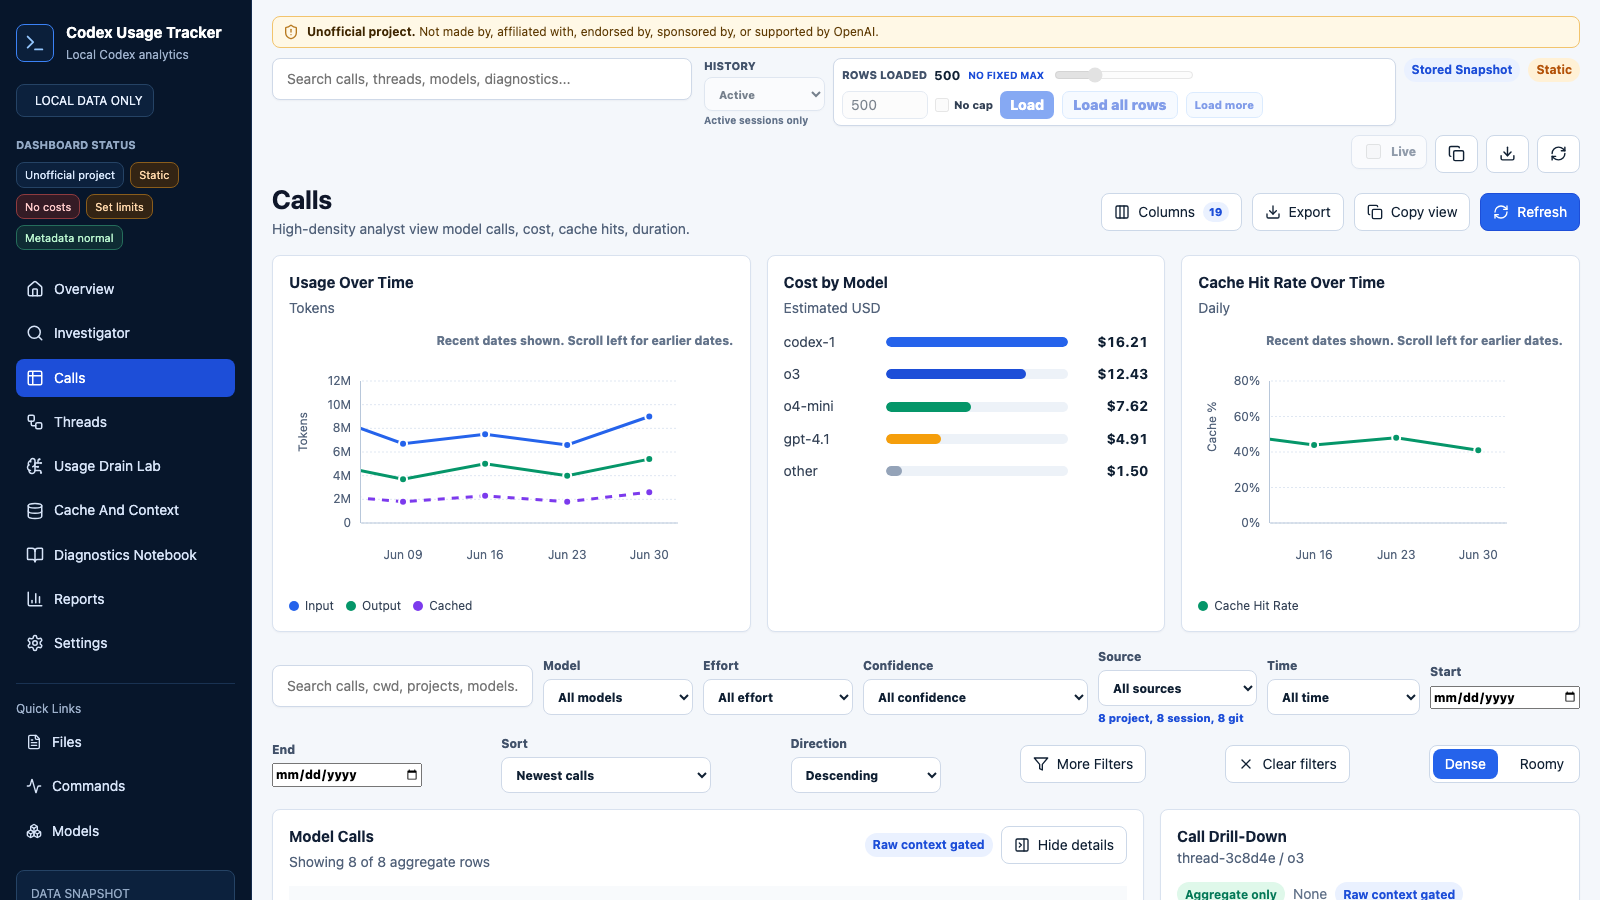
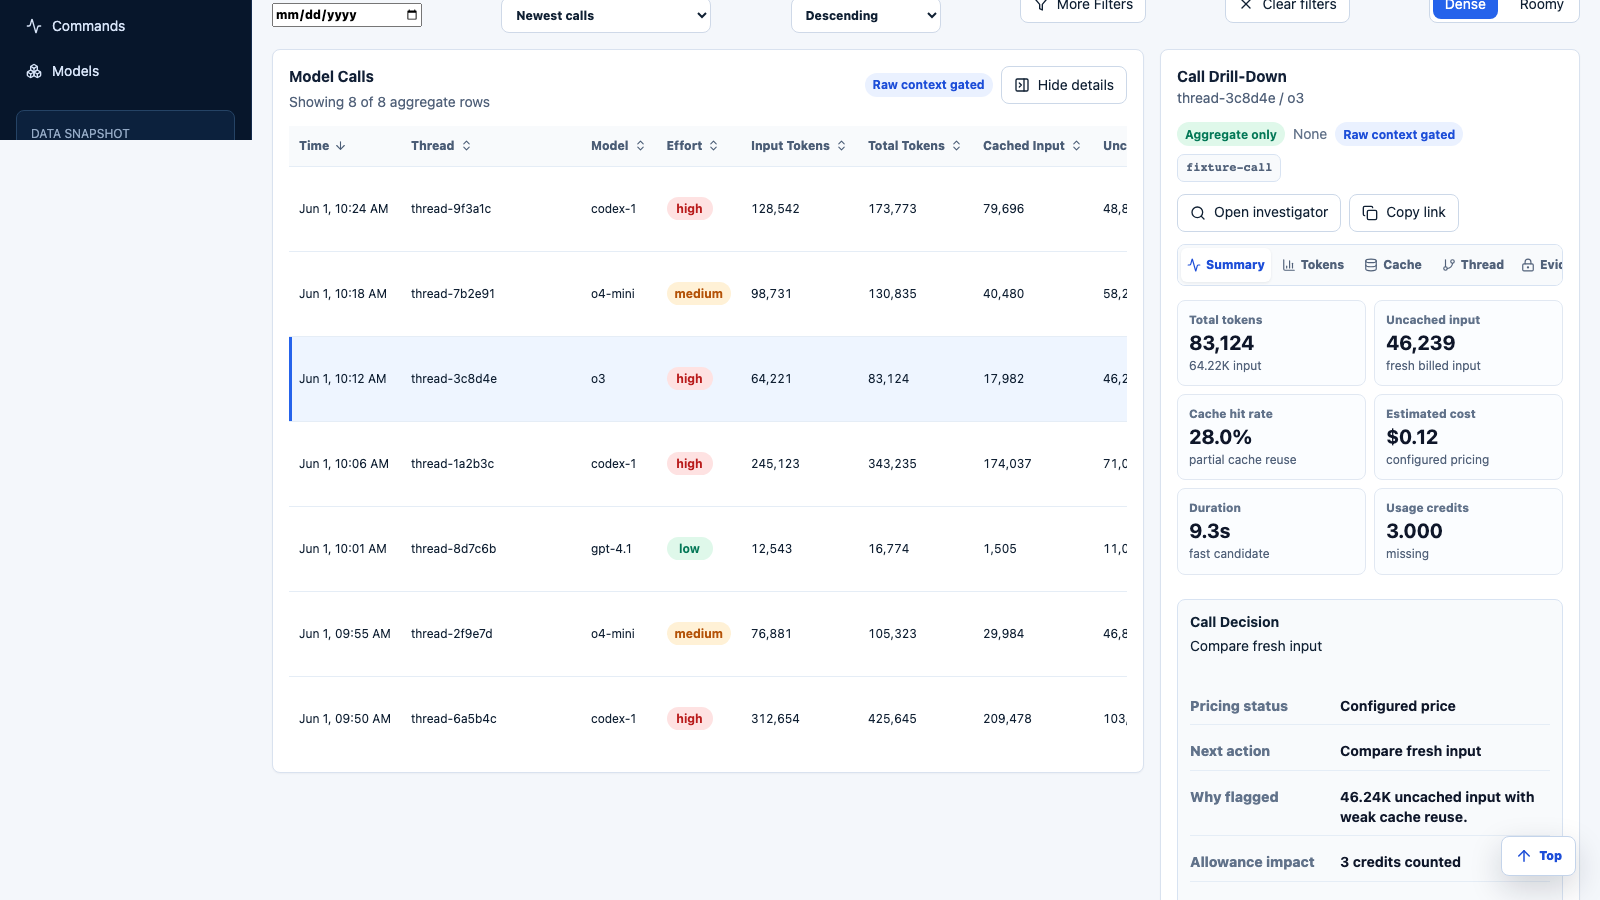
feat: prepare 0.15.0 usage coaching release
Bump to 0.15.0, add remediation-aware companion skill guidance, recenter README plugin workflow, refresh showcase/readiness docs, and harden dashboard release checks.

diff --git a/frontend/dashboard/src/App.context-cache.test.tsx b/frontend/dashboard/src/App.context-cache.test.tsx
@@ -4,7 +4,7 @@ describe('React dashboard context evidence cache', () => {
   installAppTestHooks();
 
   it('reuses loaded evidence when returning to the side-panel Evidence tab', async () => {
-    window.history.replaceState(null, '', '/?view=calls');
+    window.history.replaceState(null, '', '/?view=calls&record=record-context-cache');
     installContextCacheBootPayload();
     const fetchMock = vi.fn().mockResolvedValue(contextResponse('cached side-panel sample'));
     vi.stubGlobal('fetch', fetchMock);
@@ -26,7 +26,7 @@ describe('React dashboard context evidence cache', () => {
   });
 
   it('restores opened context entries and scroll positions when returning to Evidence', async () => {
-    window.history.replaceState(null, '', '/?view=calls');
+    window.history.replaceState(null, '', '/?view=calls&record=record-context-cache');
     installContextCacheBootPayload();
     const fetchMock = vi.fn().mockResolvedValue(contextEntriesResponse(['context entry one', 'context entry two']));
     vi.stubGlobal('fetch', fetchMock);
@@ -54,7 +54,7 @@ await waitFor(() => expect(restoredEntries[1]).toHaveAttribute('open'));
   });
 
   it('restores show-all context entry depth across tabs and full-page investigator', async () => {
-    window.history.replaceState(null, '', '/?view=calls');
+    window.history.replaceState(null, '', '/?view=calls&record=record-context-cache');
     installContextCacheBootPayload();
     const fetchMock = vi.fn().mockResolvedValue(
       contextEntriesResponse(Array.from({ length: 12 }, (_, index) => `context depth entry ${index + 1}`)),
@@ -80,7 +80,7 @@ await waitFor(() => expect(restoredEntries[1]).toHaveAttribute('open'));
   });
 
   it('reuses side-panel evidence in the full-page Call Investigator', async () => {
-    window.history.replaceState(null, '', '/?view=calls');
+    window.history.replaceState(null, '', '/?view=calls&record=record-context-cache');
     installContextCacheBootPayload();
     const fetchMock = vi.fn().mockResolvedValue(serializedContextResponse('cached full-page sample'));
     vi.stubGlobal('fetch', fetchMock);
@@ -122,7 +122,7 @@ await waitFor(() => expect(restoredEntries[1]).toHaveAttribute('open'));
   });
 
   it('restores non-default side-panel context options in the full-page Call Investigator', async () => {
-    window.history.replaceState(null, '', '/?view=calls');
+    window.history.replaceState(null, '', '/?view=calls&record=record-context-cache');
     installContextCacheBootPayload();
     const fetchMock = vi.fn().mockResolvedValue(contextResponse('cached full-analysis option sample'));
     vi.stubGlobal('fetch', fetchMock);

diff --git a/frontend/dashboard/src/App.context-metadata.test.tsx b/frontend/dashboard/src/App.context-metadata.test.tsx
@@ -4,7 +4,7 @@ describe('React dashboard context entry metadata', () => {
   installAppTestHooks();
 
   it('hydrates selected-call evidence action labels from dashboard i18n payload', () => {
-    window.history.replaceState(null, '', '/?view=calls');
+    window.history.replaceState(null, '', '/?view=calls&record=record-side-panel-i18n');
     window.__CODEX_USAGE_BOOT__ = {
       language: 'es',
       language_direction: 'ltr',
@@ -51,7 +51,7 @@ describe('React dashboard context entry metadata', () => {
   });
 
   it('shows timing, token, compaction, and tool-output metadata in selected-call evidence', async () => {
-    window.history.replaceState(null, '', '/?view=calls');
+    window.history.replaceState(null, '', '/?view=calls&record=record-metadata');
     window.__CODEX_USAGE_BOOT__ = {
       api_token: 'test-token',
       context_api_enabled: true,
@@ -164,7 +164,7 @@ describe('React dashboard context entry metadata', () => {
   });
 
   it('runs full serialized analysis from deferred selected-call evidence', async () => {
-    window.history.replaceState(null, '', '/?view=calls');
+    window.history.replaceState(null, '', '/?view=calls&record=record-metadata');
     installMetadataBootPayload();
     const fetchMock = vi.fn()
       .mockResolvedValueOnce(contextAttributionResponse({ deferred: true }))

diff --git a/frontend/dashboard/src/App.context-followups.test.tsx b/frontend/dashboard/src/App.context-followups.test.tsx
@@ -4,7 +4,7 @@ describe('React dashboard context follow-up actions', () => {
 installAppTestHooks();
 
 it('loads omitted tool output from selected-call evidence entries', async () => {
-window.history.replaceState(null, '', '/?view=calls');
+    window.history.replaceState(null, '', '/?view=calls&record=record-tool-output');
 installToolOutputBootPayload();
 const fetchMock = vi.fn()
 .mockResolvedValueOnce(contextResponse('tool output omitted sample', true))
@@ -60,7 +60,7 @@ expect(String(fetchMock.mock.calls[1][0])).toContain('record_id=record-tool-outp
 });
 
 it('loads compacted replacement from selected-call evidence entries', async () => {
-window.history.replaceState(null, '', '/?view=calls');
+    window.history.replaceState(null, '', '/?view=calls&record=record-tool-output');
 installToolOutputBootPayload();
 const fetchMock = vi.fn()
 .mockResolvedValueOnce(compactionResponse('compaction omitted sample', false))

diff --git a/frontend/dashboard/src/App.context.test.tsx b/frontend/dashboard/src/App.context.test.tsx
@@ -112,7 +112,7 @@ expect(screen.getByRole('button', { name: /Next/i })).not.toBeDisabled();
   });
 
   it('loads selected-call context evidence through the localhost API', async () => {
-    window.history.replaceState(null, '', '/?view=calls');
+    window.history.replaceState(null, '', '/?view=calls&record=record-context-1');
     window.__CODEX_USAGE_BOOT__ = {
       api_token: 'test-token',
       context_api_enabled: true,
@@ -297,7 +297,7 @@ expect(fetchMock.mock.calls[0][1]).toEqual(
   });
 
   it('loads older selected-call context when entries were omitted', async () => {
-    window.history.replaceState(null, '', '/?view=calls');
+    window.history.replaceState(null, '', '/?view=calls&record=record-context-older');
     window.__CODEX_USAGE_BOOT__ = {
       api_token: 'test-token',
       context_api_enabled: true,

diff --git a/frontend/dashboard/src/App.context-entries.test.tsx b/frontend/dashboard/src/App.context-entries.test.tsx
@@ -4,7 +4,7 @@ describe('React dashboard context entry visibility', () => {
 installAppTestHooks();
 
 it('reveals all returned selected-call evidence entries instead of silently truncating them', async () => {
-window.history.replaceState(null, '', '/?view=calls');
+    window.history.replaceState(null, '', '/?view=calls&record=record-many-entries');
 installEntryBootPayload();
 const fetchMock = vi.fn().mockResolvedValue(contextEntriesResponse(10));
 vi.stubGlobal('fetch', fetchMock);

diff --git a/frontend/dashboard/src/features/diagnostics/diagnosticSnapshotCards.test.ts b/frontend/dashboard/src/features/diagnostics/diagnosticSnapshotCards.test.ts
@@ -30,7 +30,7 @@ describe('diagnostic snapshot cards', () => {
       functions: [],
     } as DiagnosticSnapshotPayload);
 
-    expect(card.subtitle).toContain('Computed Jul 3, 8:00 AM');
+    expect(card.subtitle).toContain('Computed Jul 3,');
     expect(card.subtitle).toContain('history all');
     expect(card.subtitle).toContain('logs scanned 12');
     expect(card.subtitle).toContain('rows scanned 34');

diff --git a/skills/codex-usage-tracker/scripts/run_mcp.py b/skills/codex-usage-tracker/scripts/run_mcp.py
@@ -15,9 +15,9 @@ from pathlib import Path
 
 PACKAGE_SPEC = os.environ.get(
     "CODEX_USAGE_TRACKER_PACKAGE_SPEC",
-    "codex-usage-tracking==0.14.1",
+    "codex-usage-tracking==0.15.0",
 )
-RUNTIME_VERSION = "0.14.1"
+RUNTIME_VERSION = "0.15.0"
 PACKAGE_SPEC_MARKER = ".codex-usage-tracker-package-spec"
 MODULE_CHECK = (
     "import importlib.metadata; "

diff --git a/scripts/smoke_installed_package.py b/scripts/smoke_installed_package.py
@@ -111,6 +111,8 @@ RESOURCE_PATHS = [
     "dashboard/locales/it.json",
     "dashboard/locales/ar.json",
     "docs/dashboard-guide.html",
+    "docs/examples/token-waste-conversation.md",
+    "docs/examples/remediation-conversation.md",
     "docs/assets/dashboard-insights.png",
     "docs/assets/dashboard-calls.png",
     "docs/assets/dashboard-calls-preview.png",

diff --git a/src/codex_usage_tracker/__init__.py b/src/codex_usage_tracker/__init__.py
@@ -2,6 +2,6 @@
 
 from codex_usage_tracker.core.models import UsageEvent
 
-__version__ = "0.14.1"
+__version__ = "0.15.0"
 
 __all__ = ["UsageEvent", "__version__"]

diff --git a/docs/examples/remediation-conversation.md b/docs/examples/remediation-conversation.md
@@ -1,0 +1,34 @@
+# Remediation Planning Conversation
+
+This is a synthetic, aggregate-only example of turning Codex Usage Tracker findings into concrete workflow changes. It is written as an example conversation doc rather than a transcript from private logs.
+
+## User
+
+Which threads are draining the most, and what can we do so this does not keep happening?
+
+## Codex With Codex Usage Tracker
+
+I refreshed the aggregate index, checked `usage_threads`, and pulled supporting Calls rows for the top thread. I did not inspect raw context.
+
+## Evidence
+
+- The top thread has repeated high-token calls after context-heavy investigation turns.
+- The Calls table shows high context-window percentage and a few low-cache rows.
+- The expensive rows are tied to repeated repository discovery and broad validation.
+
+## Recommended Remediation
+
+- Split future work into an investigation thread and an implementation thread once the plan is stable.
+- Preserve reusable findings in a short repo note or roadmap issue, then start a fresh thread from that summary.
+- Ask Codex to use a narrow validation plan first, then broaden only before release.
+- If Headroom is installed, ask it to check context pressure before continuing a long thread.
+- If the pattern repeats, have Codex build a custom local helper command or skill note that captures the exact repo facts it keeps rediscovering.
+
+## Verify
+
+Open the dashboard and check:
+
+- Threads sorted by total tokens before and after the workflow change.
+- Calls filtered to the target thread, sorted by total tokens.
+- Call Investigator for one high-pressure call.
+- Diagnostics Notebook usage-drain evidence if weekly usage remains unexpectedly high.

diff --git a/src/codex_usage_tracker/plugin_data/docs/examples/remediation-conversation.md b/src/codex_usage_tracker/plugin_data/docs/examples/remediation-conversation.md
@@ -1,0 +1,34 @@
+# Remediation Planning Conversation
+
+This is a synthetic, aggregate-only example of turning Codex Usage Tracker findings into concrete workflow changes. It is written as an example conversation doc rather than a transcript from private logs.
+
+## User
+
+Which threads are draining the most, and what can we do so this does not keep happening?
+
+## Codex With Codex Usage Tracker
+
+I refreshed the aggregate index, checked `usage_threads`, and pulled supporting Calls rows for the top thread. I did not inspect raw context.
+
+## Evidence
+
+- The top thread has repeated high-token calls after context-heavy investigation turns.
+- The Calls table shows high context-window percentage and a few low-cache rows.
+- The expensive rows are tied to repeated repository discovery and broad validation.
+
+## Recommended Remediation
+
+- Split future work into an investigation thread and an implementation thread once the plan is stable.
+- Preserve reusable findings in a short repo note or roadmap issue, then start a fresh thread from that summary.
+- Ask Codex to use a narrow validation plan first, then broaden only before release.
+- If Headroom is installed, ask it to check context pressure before continuing a long thread.
+- If the pattern repeats, have Codex build a custom local helper command or skill note that captures the exact repo facts it keeps rediscovering.
+
+## Verify
+
+Open the dashboard and check:
+
+- Threads sorted by total tokens before and after the workflow change.
+- Calls filtered to the target thread, sorted by total tokens.
+- Call Investigator for one high-pressure call.
+- Diagnostics Notebook usage-drain evidence if weekly usage remains unexpectedly high.

diff --git a/docs/examples/token-waste-conversation.md b/docs/examples/token-waste-conversation.md
@@ -1,0 +1,32 @@
+# Token Waste Review Conversation
+
+This is a synthetic, aggregate-only example of using the Codex Usage Tracker companion skill. It does not include prompts, assistant messages, tool output, pasted secrets, raw transcript text, real thread names, or real usage totals.
+
+## User
+
+Look through my usage for token waste and recommend what I should change.
+
+## Codex With Codex Usage Tracker
+
+I refreshed the local aggregate index and ranked recent calls by total tokens, context-window pressure, cache ratio, and thread totals.
+
+## Evidence
+
+- One long implementation thread accounts for most recent tokens.
+- Several calls have high input tokens with low cached input, which means repeated context was not being reused efficiently.
+- The most expensive rows cluster around broad file discovery plus full test reruns.
+
+## Likely Waste Pattern
+
+Codex is rediscovering project context and rerunning broad checks in the same workstream. The dashboard evidence to inspect next is Calls sorted by total tokens, then the top thread in Threads, then the highest-pressure record in Call Investigator.
+
+## Next Actions
+
+- Use Calls to open the top three expensive rows.
+- If Headroom is available, use it to estimate whether the thread is near context pressure before continuing.
+- Move stable project facts into docs or an `AGENTS.md` note so Codex does not need to infer them repeatedly.
+- Create a repo-specific validation command or test-selection checklist if broad checks are happening every turn.
+
+## Verify
+
+After the next few sessions, compare Threads total tokens, Calls cache ratio, and Diagnostics Notebook usage-drain evidence against the previous window.